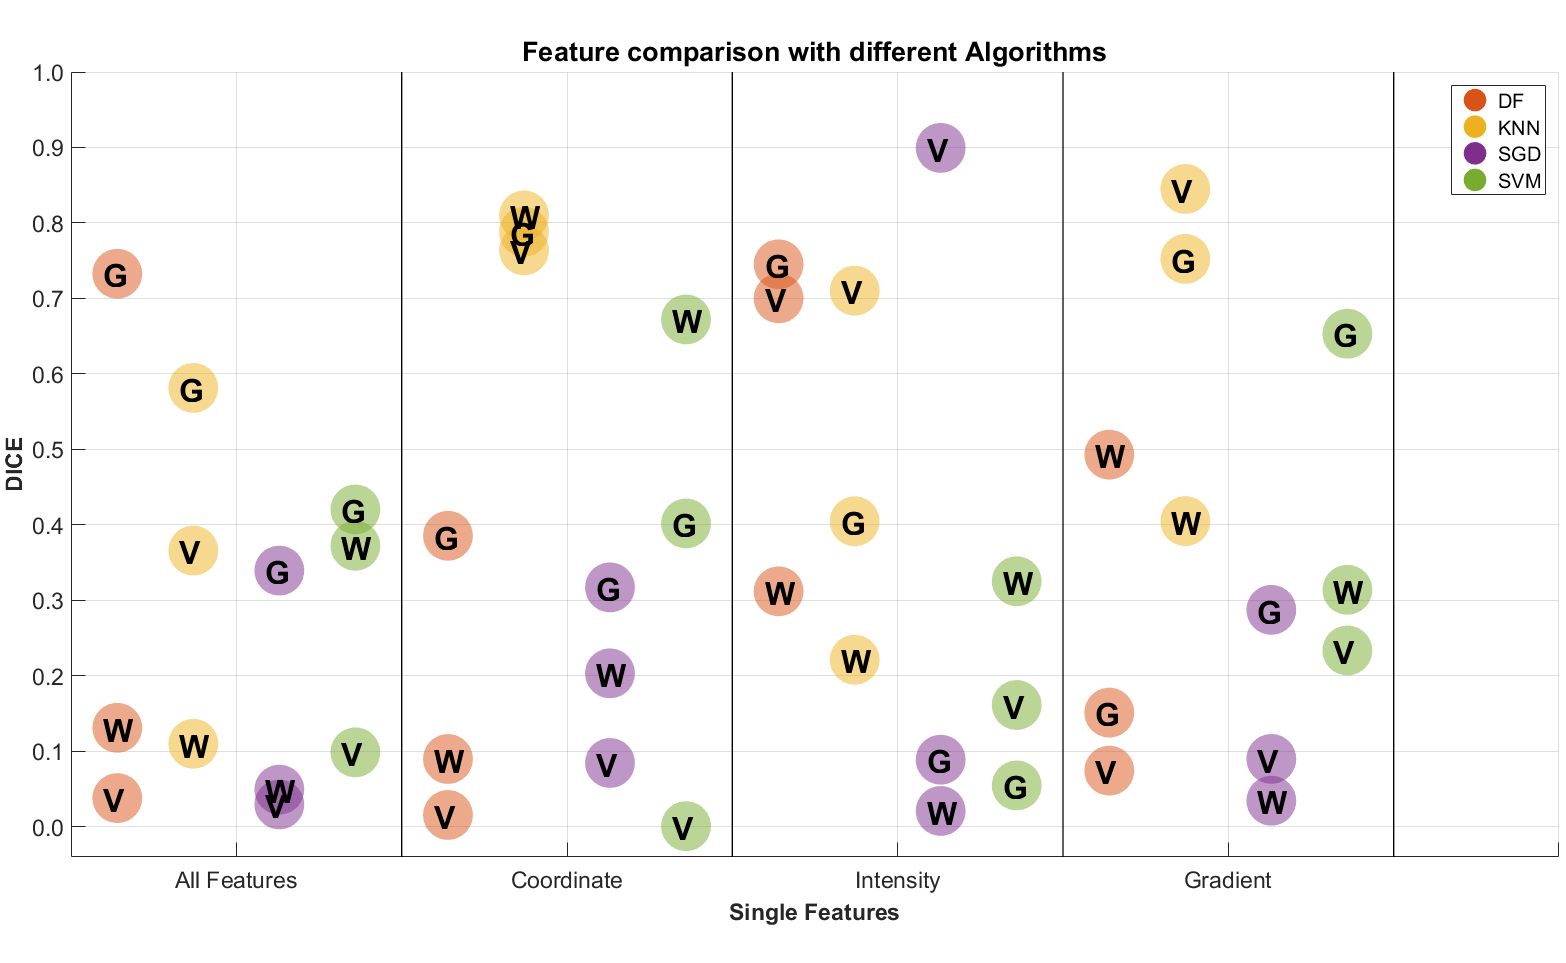
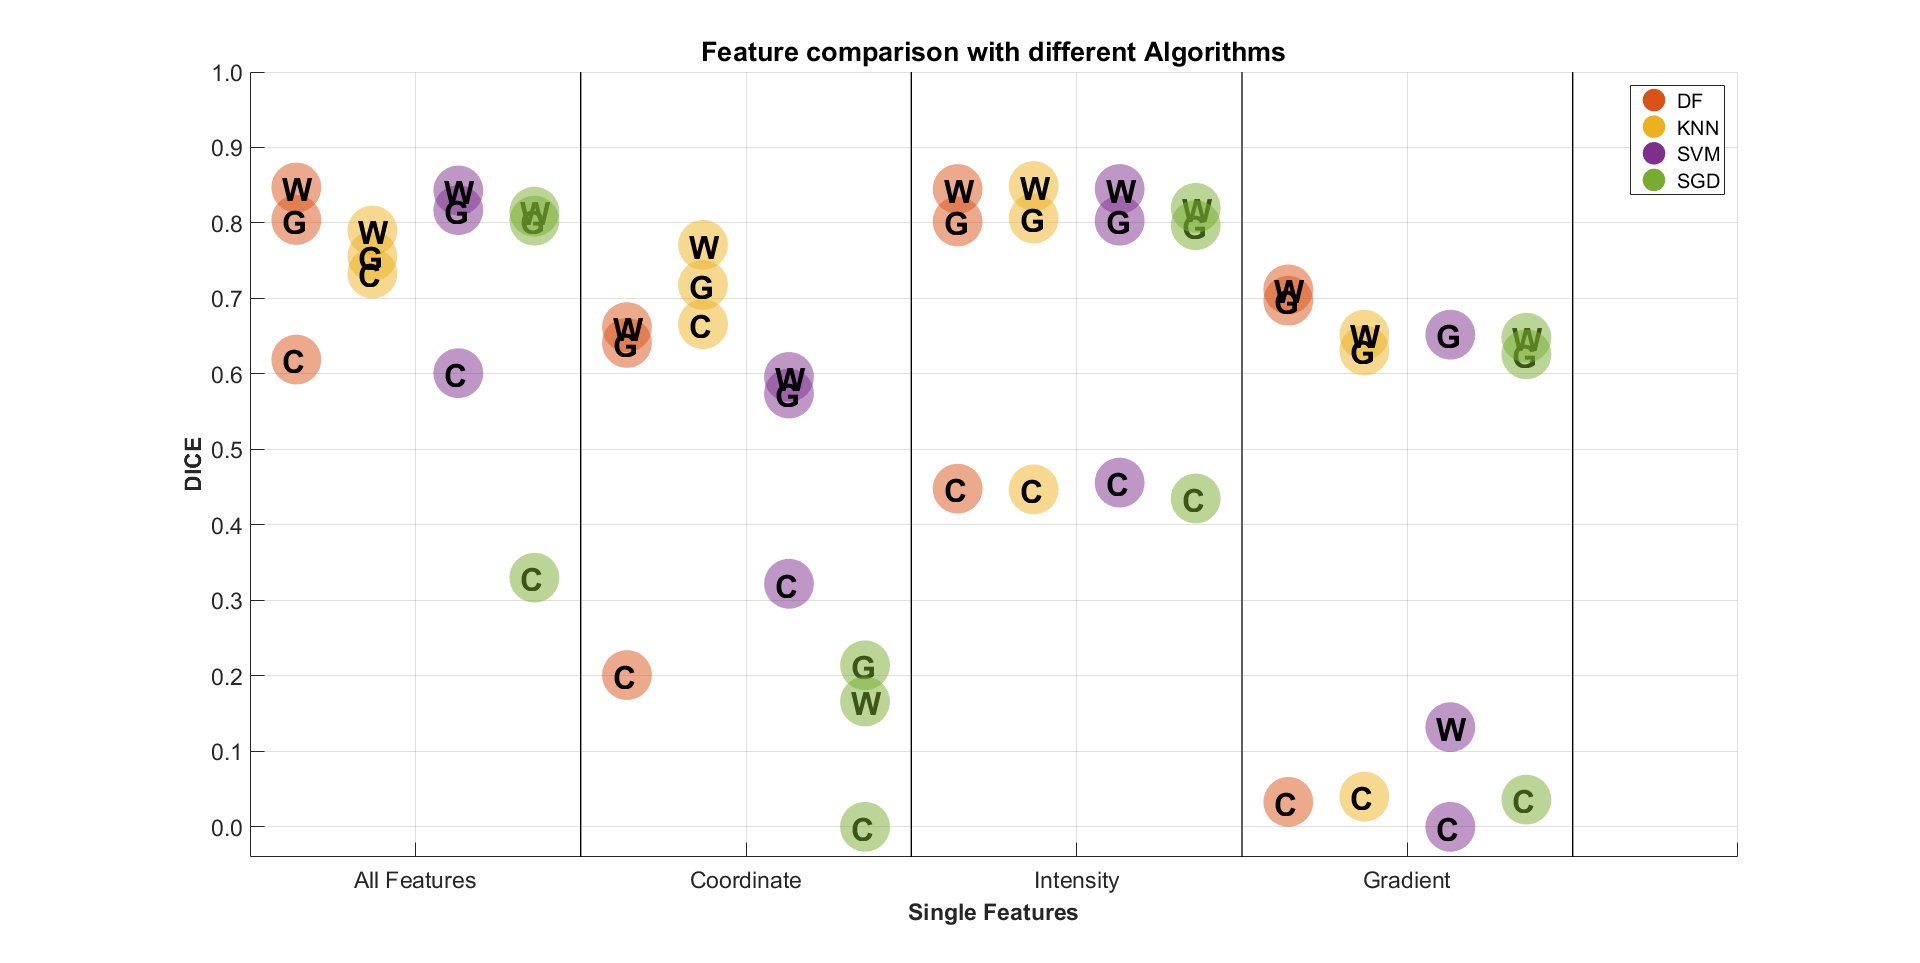
tex: completed feature inspection

diff --git a/tex/mialab.tex b/tex/mialab.tex
@@ -211,10 +211,9 @@ For DF, kNN and SGD, the testing time is independent of the amount of training d
 
 %Feature selection is another key part of the machine learning process. Features are also called variable or attribute and describe the model. Irrelevant and redundant features do not contribute to the accuracy of the predictive model, at worst they decrease the accuracy. The used feature set consists of seven features, f1-f3: Coordinate features, f4: T1 intensity, f5: T1 gradient, f6: T2 intensity, f7: T2 gradient. 
 
-Figure~(\ref{scatterplot}) shows the scatter matrix of all the features. The whole dataset of 100 images was used for this evaluation. On the diagonal are the histograms to visualize the data distribution of each feature. The first three histograms on the diagonal are of the coordinate features and are normally distributed. The fourth and fifth histograms belong to the intensity features and follow a non normal distribution. The last two histograms show the gradient features and are partially normal distributed. The part above the diagonal visualizes the linear correlation between each of the feature with the associated correlation coefficient. The part below the diagonal is redundant to the upper part. 
+Figure~(\ref{scatterplot}) shows the scatter matrix of all the features. The whole dataset of 100 images was used for this evaluation. On the diagonal are the histograms to visualize the data distribution of each feature. The first three histograms are of the coordinate features and are normally distributed. The fifth and sixth histograms belong to the intensity features and follow a non normal distribution. The last two histograms show the gradient features and are partially normal distributed. The right upper part of the diagonal visualizes the linear correlation between each of the feature with the associated correlation coefficient. The left bottom part of the diagonal is redundant to the upper part. 
 
-The coordinate features with a correlation coefficient between -0.12 and 0.05 are independent and do not correlate with any other feature at all. The first intensity feature has a moderate linear relationship with the second intensity feature and a weak relationship with the first gradient feature. The second intensity feature has also a moderate correlation with both of the gradient features. The gradient features correlate very strong among themselves with a correlation coefficient of 0.83.
-
+The coordinate features with a correlation coefficient between -0.12 and 0.05 are independent and do not correlate with any other feature at all. The first intensity feature has a moderate linear relationship with the second intensity feature and a weak with the first gradient feature. The second intensity feature has also a moderate correlation with both of gradient features. The gradient features correlate with an correlation coefficient of 0.83 very strong among themselves.
 
 \begin{figure}[h]
 	\centering
@@ -223,9 +222,9 @@ The coordinate features with a correlation coefficient between -0.12 and 0.05 ar
 	\label{scatterplot}
 \end{figure}
 
-Figure~(\ref{FeatEval}) visualizes the influence of each feature group and the used algorithm. The features are divided into groups; \textit{coordinate (x, y, z)}, \textit{intensity (T1, T2)}, and \textit{gradient (T1, T2)}. The first column in this figure is calculated with all the features combined and is considered as a reference. Each column belongs to a single feature group in which the dice of the four algorithms used is visualized. Vertically aligned are dices displayed for WM, GM and CSF.
+The following Fig~(\ref{FeatEval}) visualizes the influence of each feature type and the used algorithms. The feature types are divided in three coordinate, two intensity and two gradient features. The first column in this figure is calculated with all the features combined and is considered as a reference. Each column belongs to a single feature type in which the dice of the four used algorithms is visualized. Vertically aligned are dices for WM, GM and the CSF displayed.
 
-\TODO{Describe the plot, insert Legend of W, V or C? in figure 3, Mike, still waiting on one SVM}
+All four algorithms achieved similar results on the intensity features. The GM and WM are equal or even higher compared to the result of all the combined features. The dice of CSF on the gradient features is between 0.0 and 0.05. The KNN reaches on the coordinate features dice of 0.65 to 0.77 for all tissue types. The SGD algorithm accomplished on the coordinate features a very low dice for all three tissue types in the range of 0.0 to 0.22.
 \begin{figure}[h]
 	\centering
 	\includegraphics[width=0.49\textwidth]{images/FeatureEvaluation}
